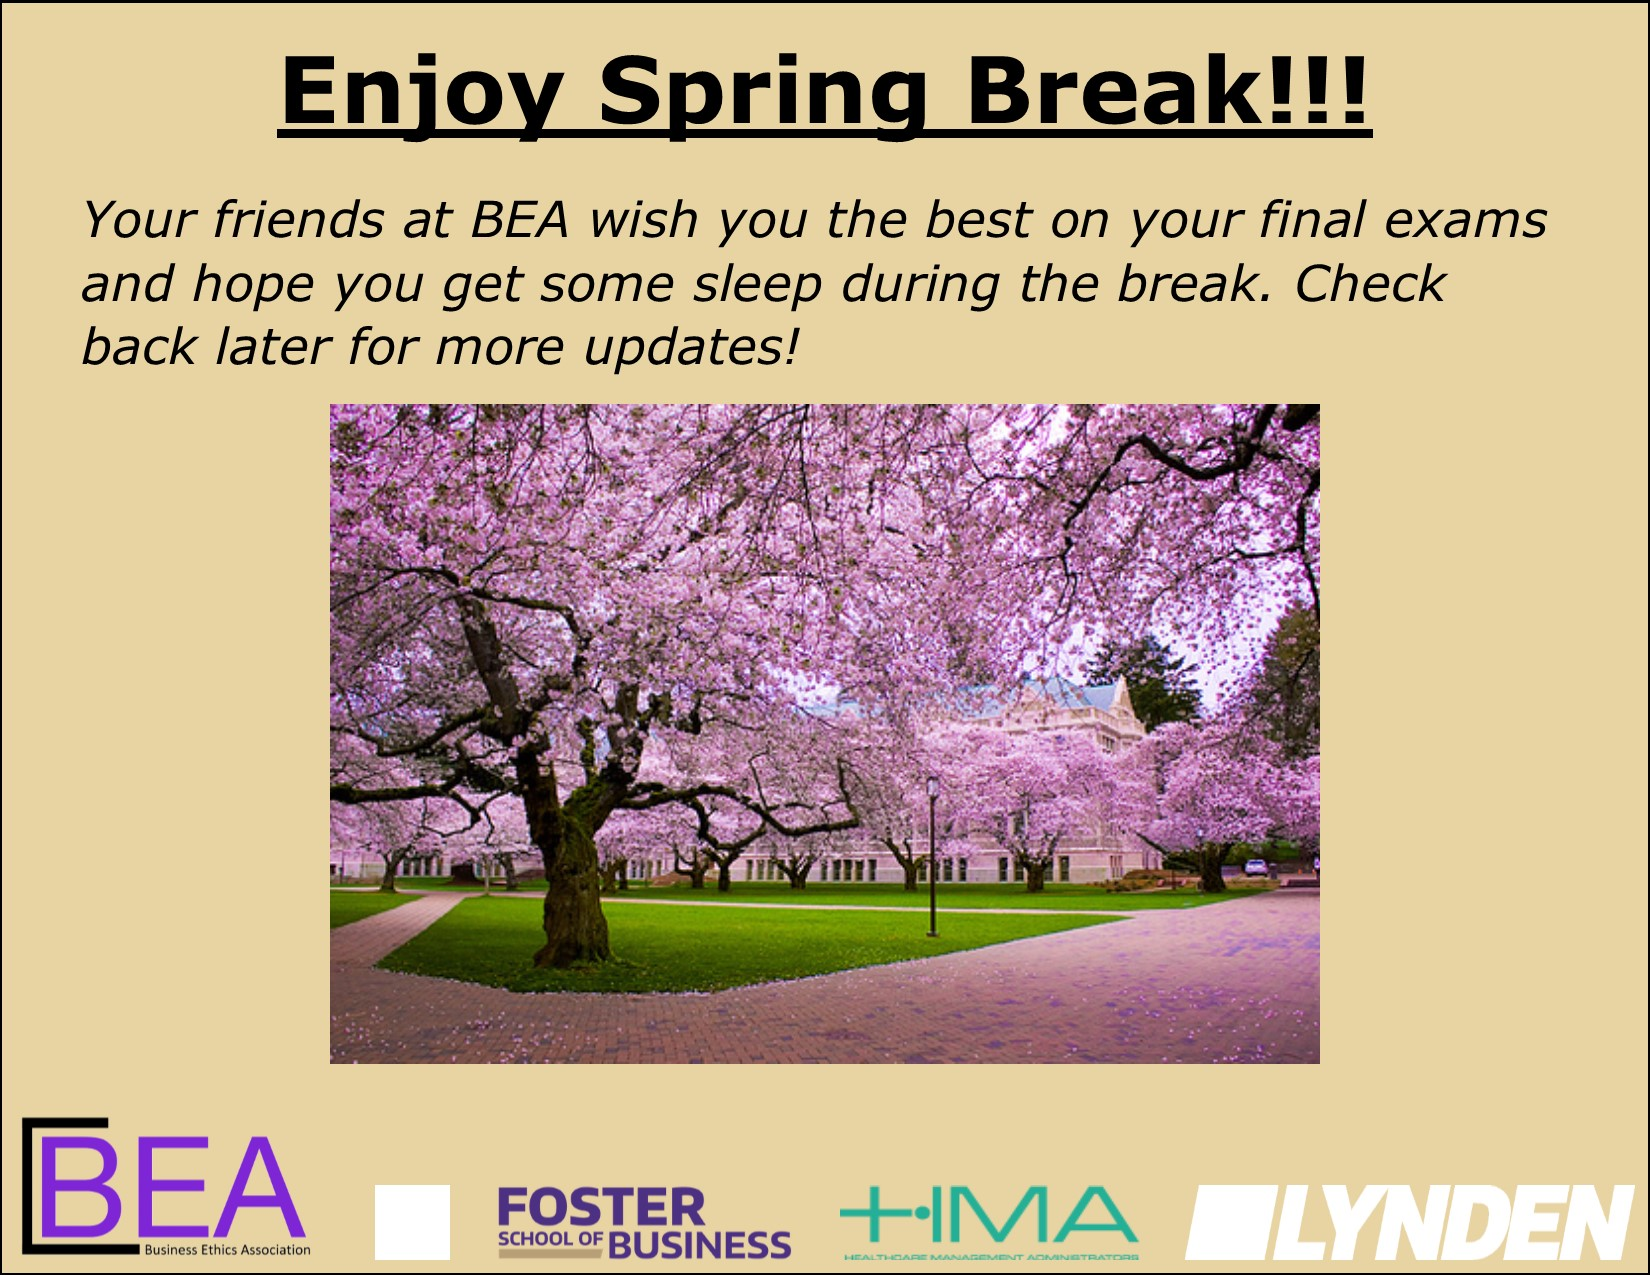
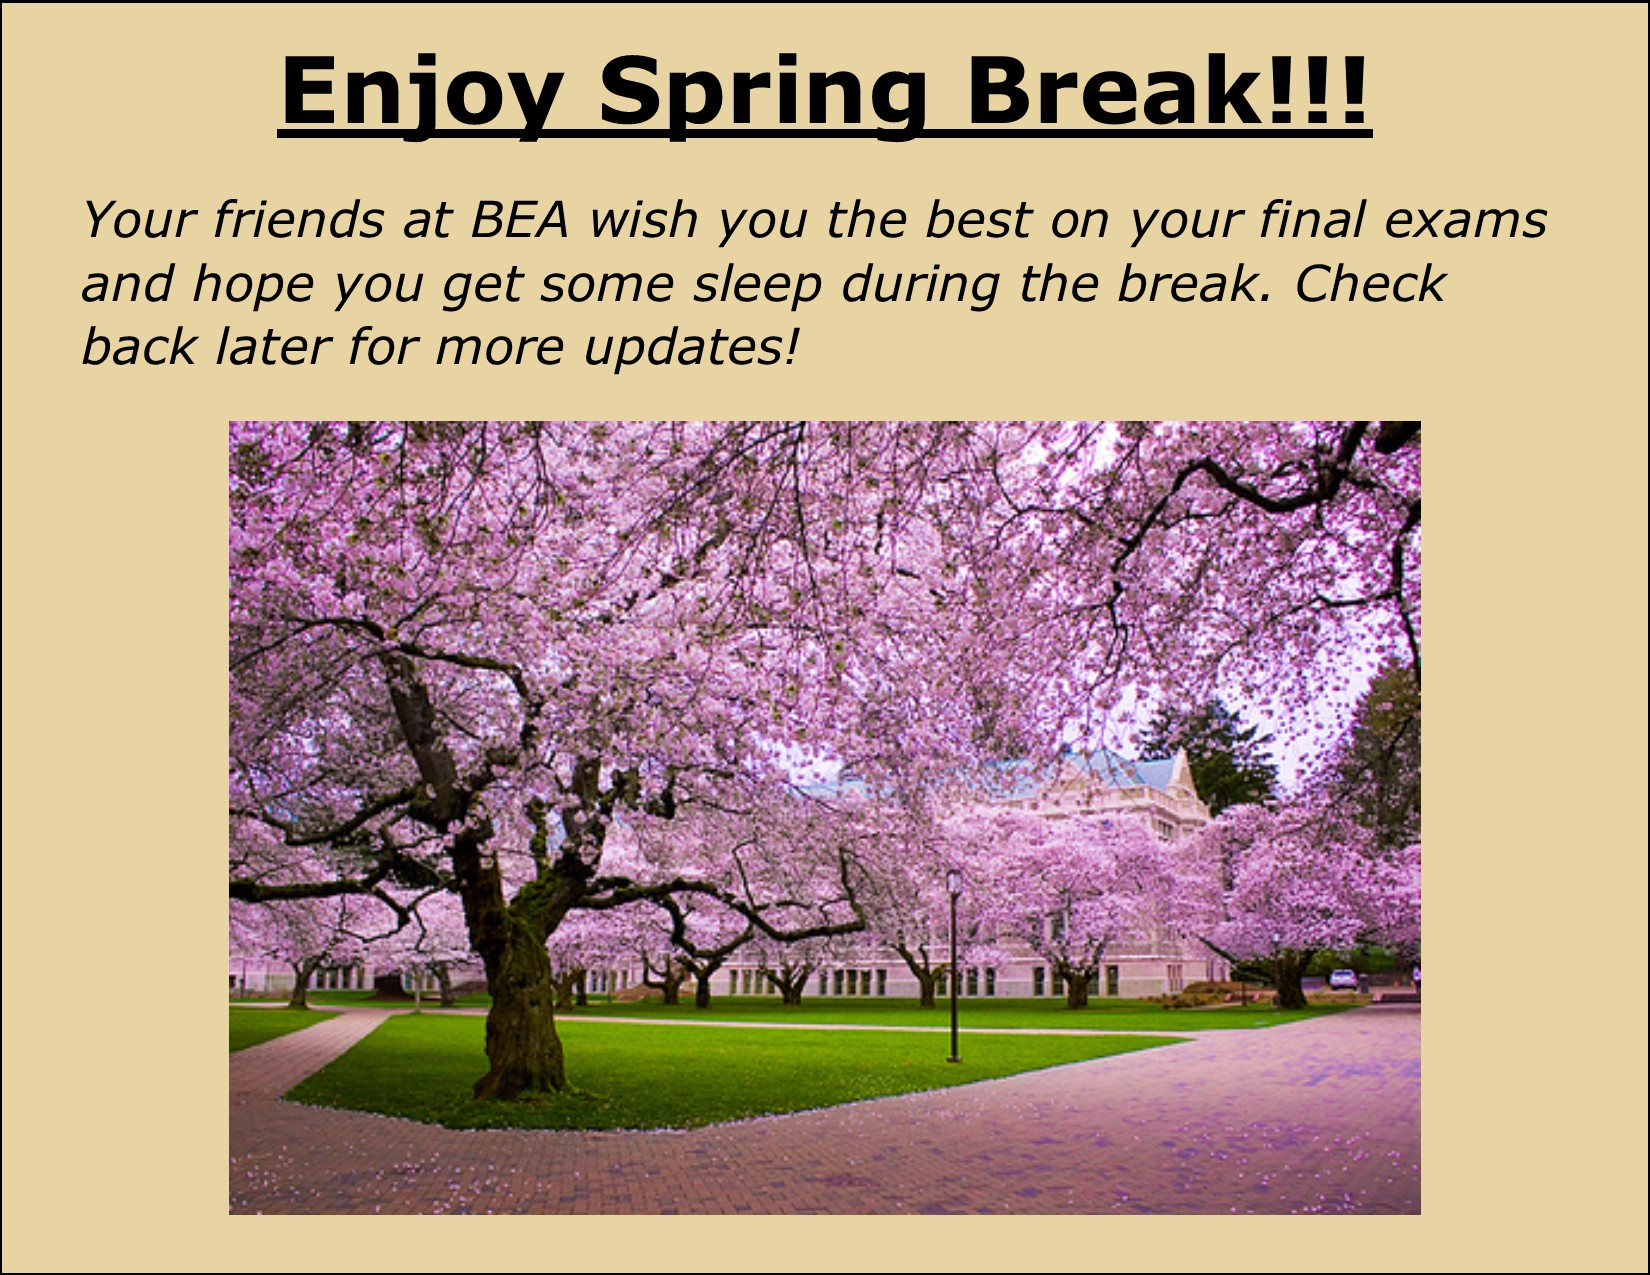
sbreak

diff --git a/templates/landing.html b/templates/landing.html
@@ -2,5 +2,5 @@
   <img id="banner" src="img/icons/banner.jpg"></img>
   <h1>2017-18 OFFICER APPLICATIONS ARE NOW OPEN!</h1>
   <h2><a href="http://students.washington.edu/uwbea/welcome/#/officer-app/">Click here for more information!</a></h2>
-  <img id="headline" src="img/meetings/03.07.17.jpg"></img>
+  <img id="headline" src="img/meetings/Spring_Break.jpg"></img>
 </div>
